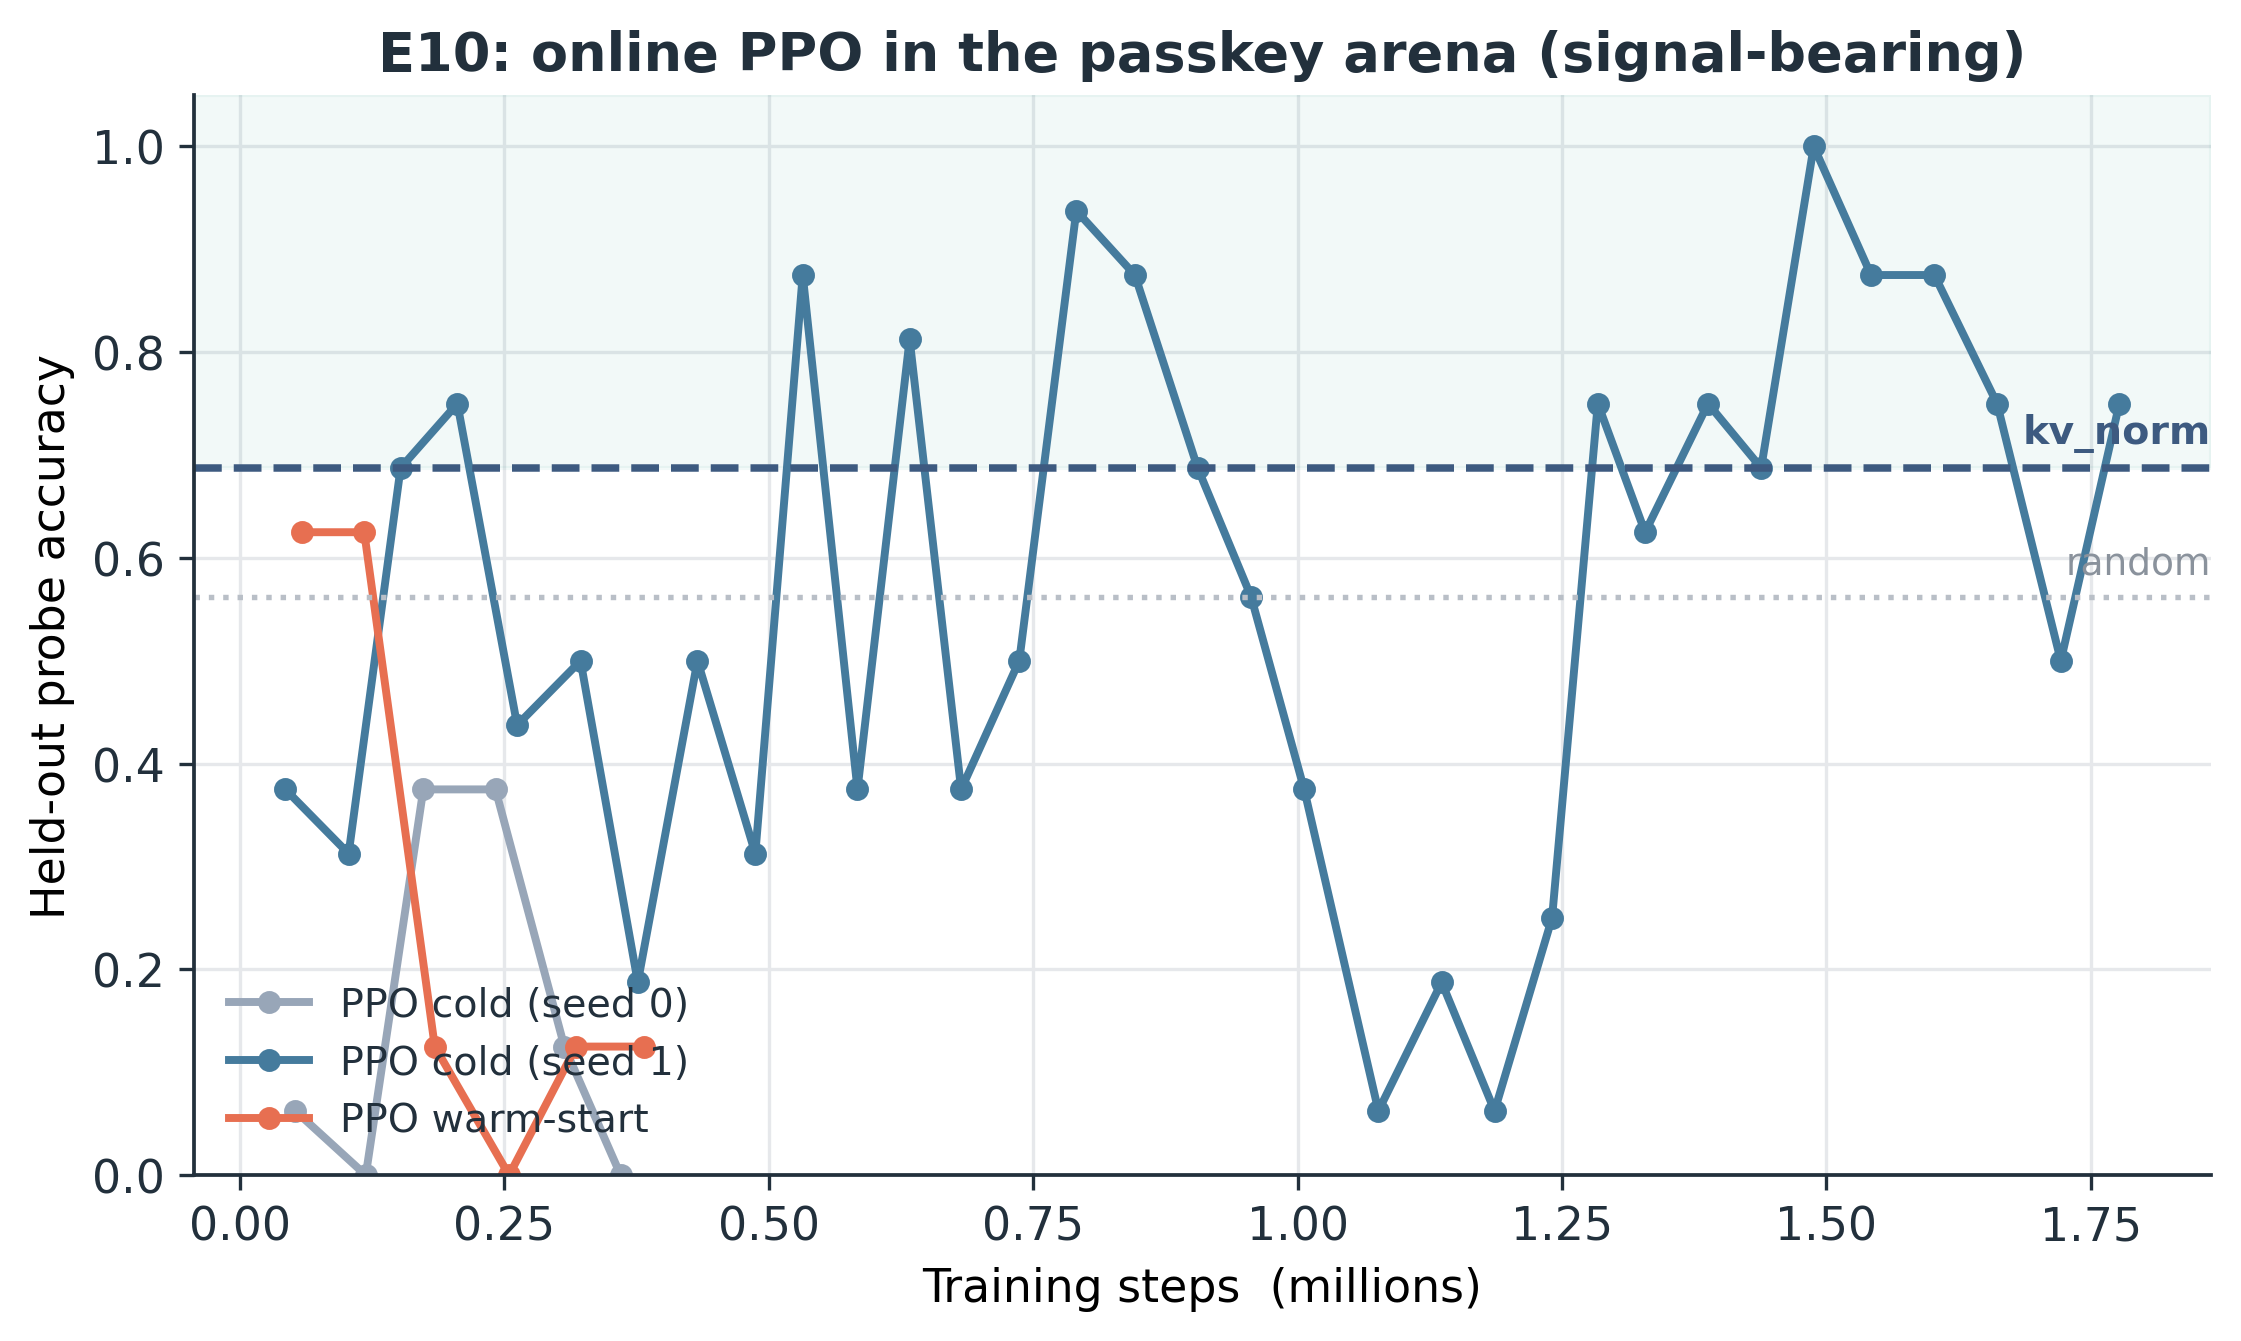
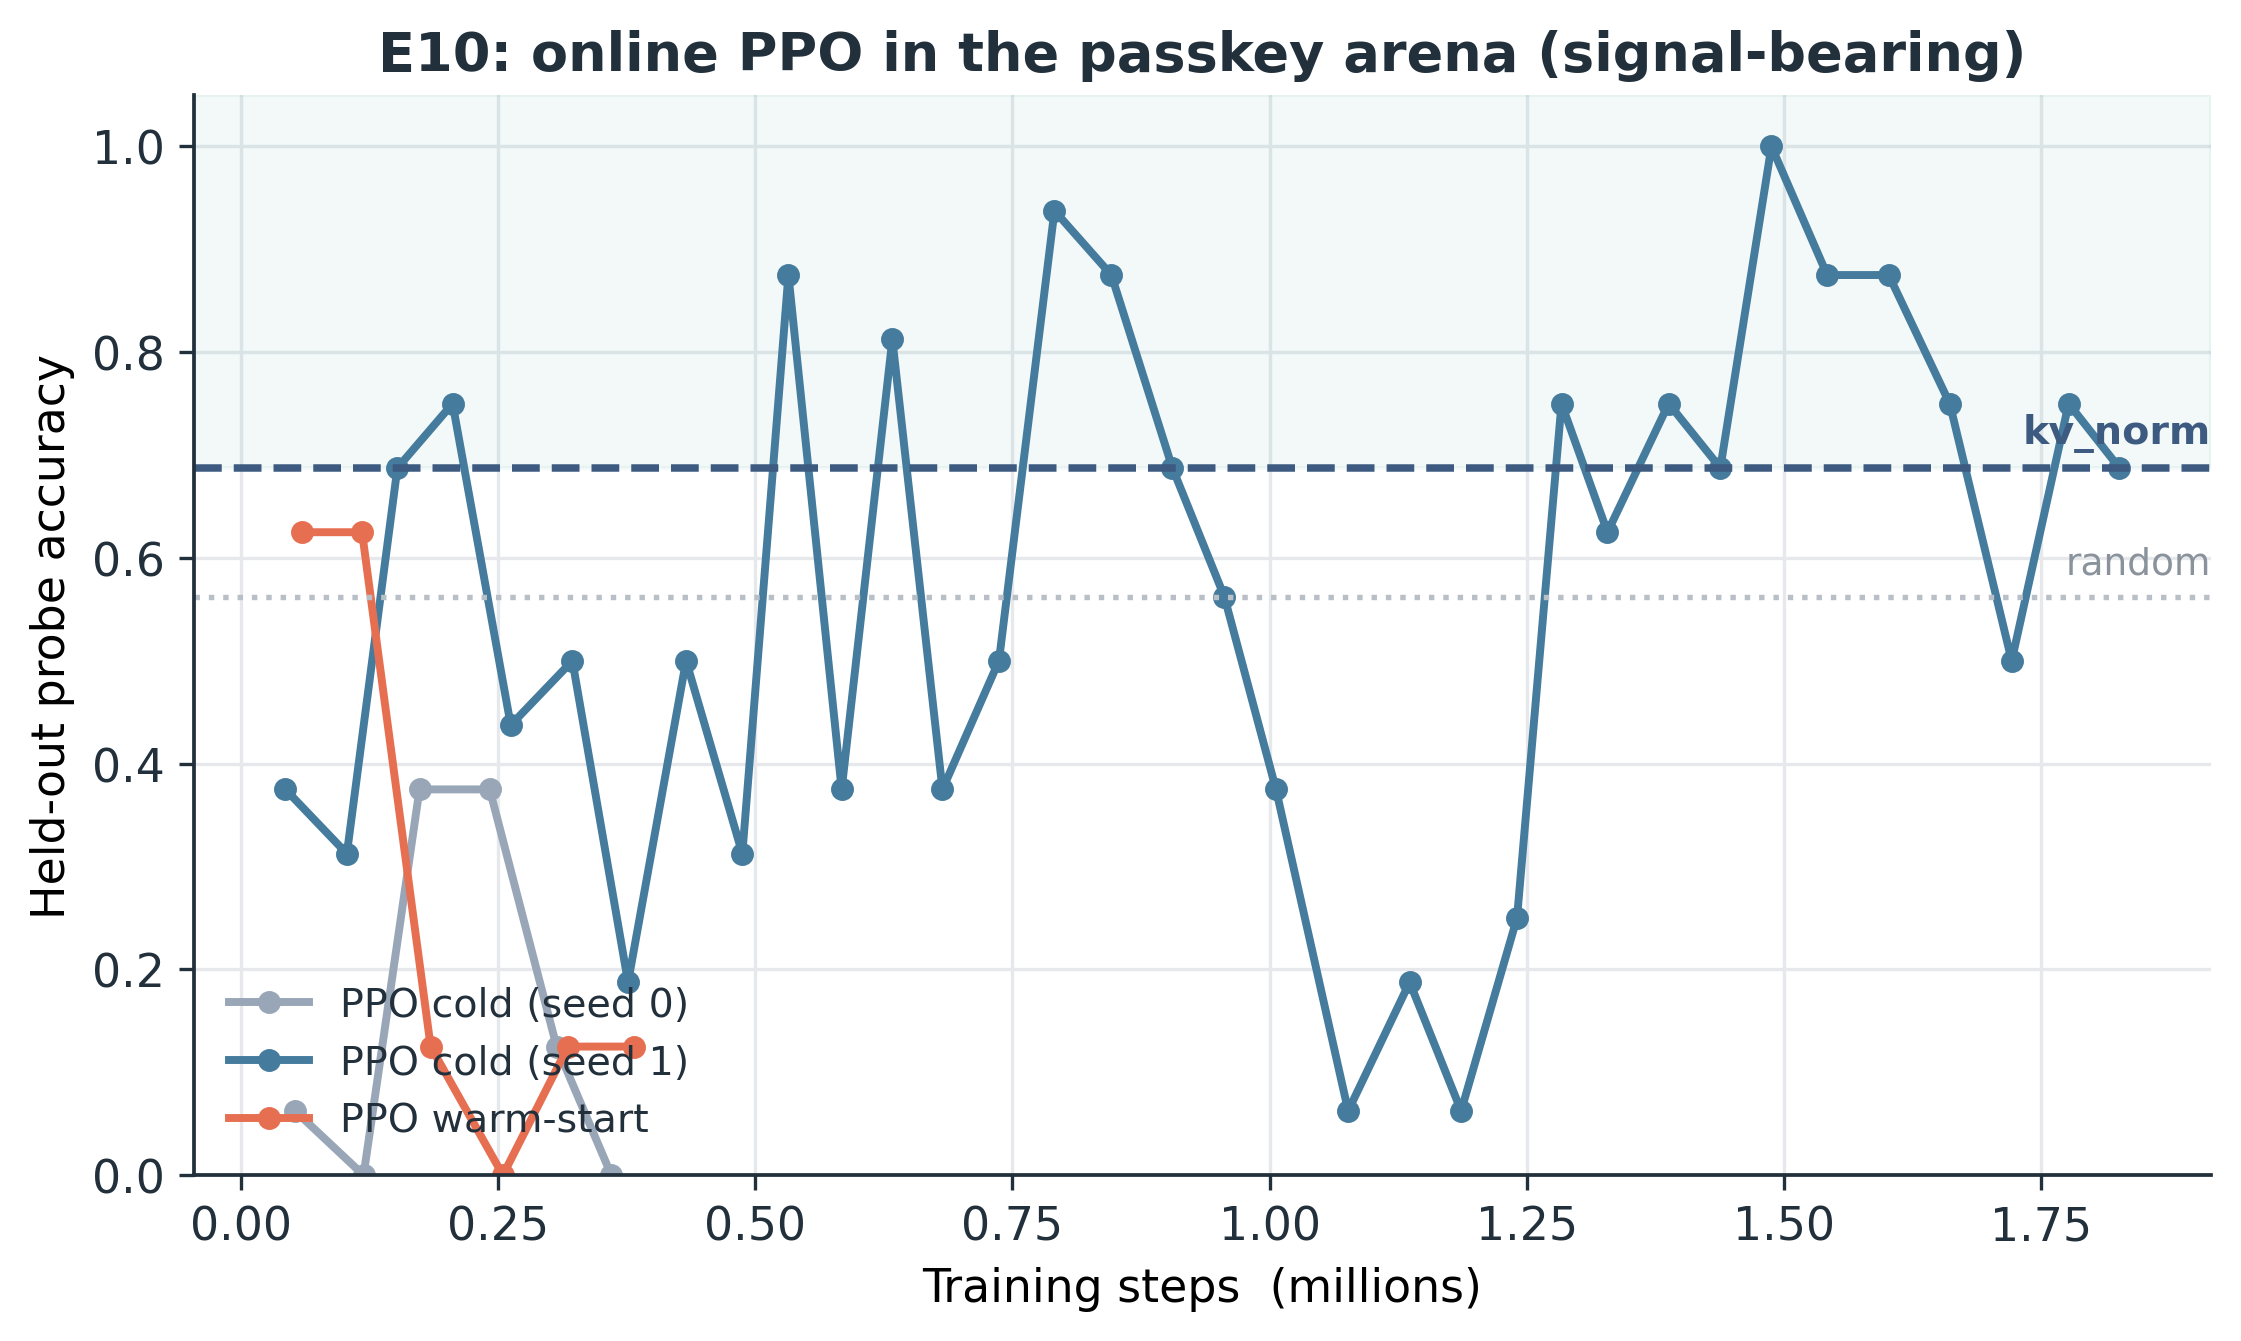
verify: regenerate all figures from raw data (figures.py + phase3 make_plots.py both pass). fig10 refreshed with latest live E11 klC probes (n=41). Fix last dangling doc references in config/code comments.

diff --git a/kv-eviction-gym/src/kv_gym/eval_core.py b/kv-eviction-gym/src/kv_gym/eval_core.py
@@ -230,7 +230,7 @@ def valid_action_mask(
     `n_prompt` (= prompt length T) protects the entire problem statement from eviction:
     once protected, the prompt never moves from slots [0, T), so only GENERATED tokens
     (slots ≥ T, minus the recency window) are evictable. This is the inductive bias from
-    HANDOFF.md step 3: preserve the question, compress the intermediate reasoning. It also
+    docs/runs/01 fix list: preserve the question, compress the intermediate reasoning. It also
     structurally prevents the "evict recent generated" collapse. n_prompt=0 → old behavior.
 
     Graceful degradation (never returns an all-False mask — MaskablePPO needs ≥1 valid

diff --git a/docs/runs/02-chat-template-fix.md b/docs/runs/02-chat-template-fix.md
@@ -14,9 +14,10 @@ Every run, regardless of the reward, died against the same wall:
 | `s4_kl_v1` | correctness + KL-to-full | 100% truncation, retention 0-5%, identical pattern |
 
 100% truncation, 0% correctness, `explained_variance=NaN`: PPO with no gradient.
-Before finding the real cause, mitigations were tried that did not attack the problem
-(easy example sets, per-example budgets, prompt protection); that period's HANDOFF blamed
-the "free-growth skip" that discarded easy examples. That was a symptom, not the cause.
+Before finding the real cause, mitigations that did not attack the problem were tried
+(easy-example sets, per-example budgets, prompt protection); the handoff of that era
+(now in the git history) attributed the problem to the "free-growth skip" that discarded
+easy examples. That was a symptom, not the cause.
 
 ## Root cause
 

diff --git a/docs/METHOD.md b/docs/METHOD.md
@@ -494,5 +494,5 @@ Changes:
   (Alex's original, reference), `per_step` (the mode that collapsed; kept for reproduction).
 - **`probe/evict_generated_frac`** metric makes the collapse visible.
 
-See `HANDOFF.md` for the full post-mortem, the A/B configs (`run_none`/`run_recency`/`run_terminal`),
+See [runs/01](runs/01-env-first-rewards.md) for the full post-mortem,
 and how to run. **Always eval `best_probe_model`, not `final_model`.**
